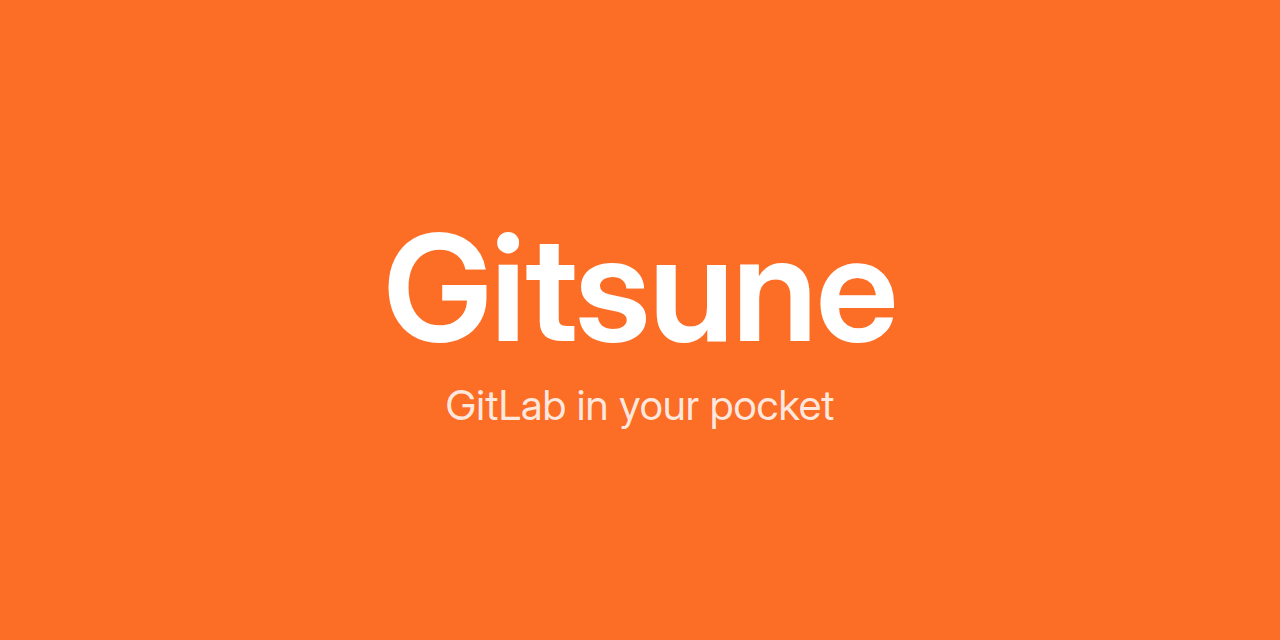
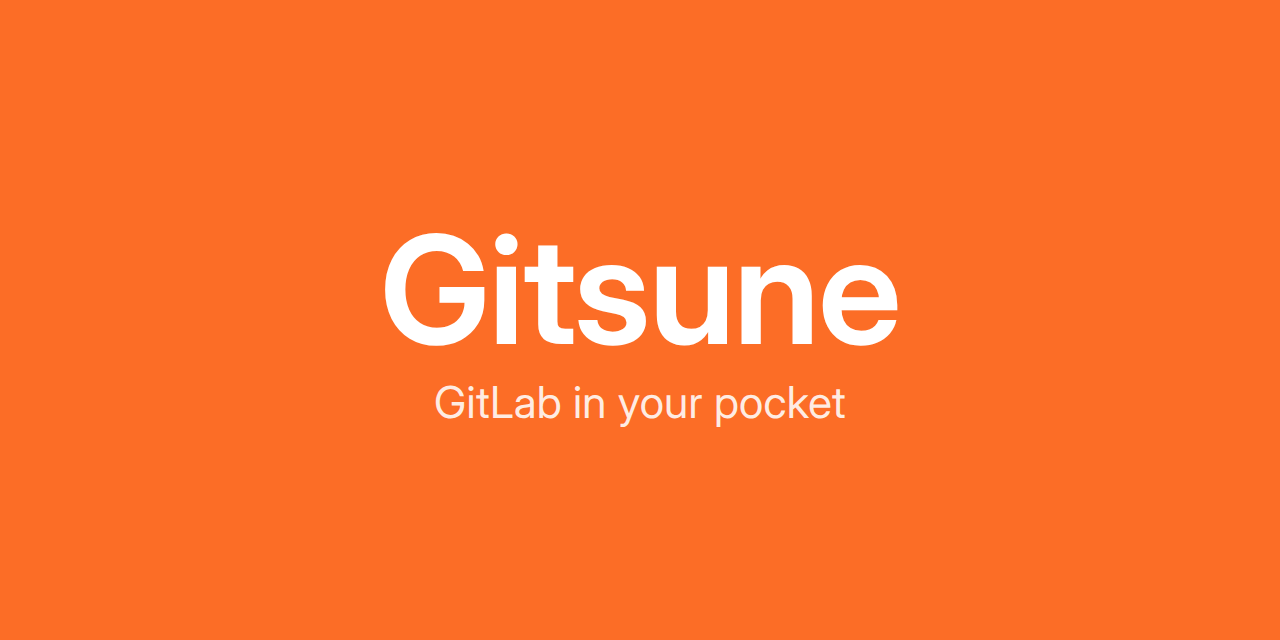
improve social preview image quality; drop the product-forward variant (#94)
Re-render the social preview PNG at full sharpness in the real GitLab
Sans brand font, same design (flat brand-orange background, centered
Gitsune wordmark and tagline). Remove the product-forward variant and
revert the design readme's assets index back to naming one image.

diff --git a/design/readme.md b/design/readme.md
@@ -65,7 +65,7 @@ This repository's own license is not yet decided (see `README.md`); the licenses
 ## Index
 
 - `styles.css` → imports `tokens/` (fonts, colors, semantic, typography, spacing, elevation, base)
-- `assets/`: fonts (GitLab Sans/Mono variable woff2), icon sprites, illustrations, the versioned social-preview images (`gitsune-social-preview.png` flat, `gitsune-social-preview-product.png` product-forward), and the third-party license texts covering them (see "Third-party licenses" above)
+- `assets/`: fonts (GitLab Sans/Mono variable woff2), icon sprites, illustrations, the versioned social-preview image, and the third-party license texts covering them (see "Third-party licenses" above)
 - `components/` — `core/` Icon, CiIcon · `actions/` Button · `display/` Avatar, Badge, Label, Token, Skeleton · `feedback/` Alert, Toast · `containers/` Card, Tabs · `overlays/` Drawer, Modal · `navigation/` TabBar, ListRow, Tile. Each has `.d.ts` + `.prompt.md` + a specimen card.
 - `ui_kits/gitsune-app/` — the seven documented surfaces as an interactive phone mock (`index.html`, all logic in `GitsuneApp.jsx`): SignIn, Home, TodoInbox, MergeRequest (+DiffView), IssueView, Explore, Profile (switcher), CodeBrowser
 - `templates/app-screen/` — "Gitsune app screen" template for consuming projects (tweakable surface + theme)
